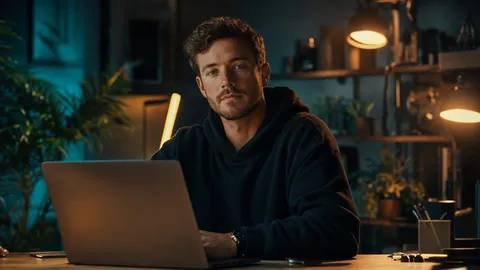
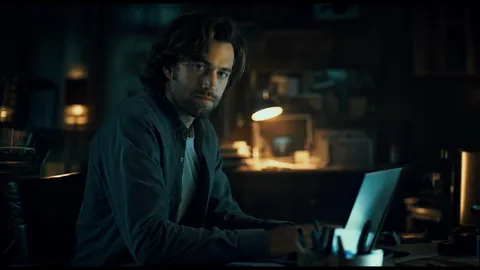
art(formats): regenerate the original six previews on ChatGPT Images so the picker is one model (#37)
* art(formats): regenerate the original six previews on ChatGPT Images so the picker is one model

The twelve-card picker shipped with six cards drawn by SD XL 1.0 (3 Buzz) and
six by ChatGPT Images (209). Each card was an honest sample of its own suffix,
but comparing two cards compared two MODELS as much as two formats. The operator
looked at the live 0.1.10 picker and chose consistency: all twelve are now
ChatGPT Images.

The suffixes are untouched. Only the art moved, so every card still shows what
its own suffix does.

Measured rather than assumed:

- The price was verified with a CONTROL PAIR before spending, because an
  unrecognised ecosystem spelling is billed silently at the default model's
  price. `--ecosystem OpenAI` -> 209; the identical request with no --ecosystem
  -> 8. All six dry-ran at 209.
- The spend reconciles exactly: balance 4,061,060 -> 4,059,806, delta 1,254 =
  6 x 209.
- All six delivered 1536x864 by `magick identify` -- a true 16:9 frame, so none
  was cropped. The SD XL art had to be cover-cropped from 1216x832; that step is
  gone. Resized to the repo's 480x270 WebP convention.
- All six passed moderation and the prompt parser: six submits, six images, no
  rejection, no retry. A rejected submit does not bill, so the reconciled 1254 is
  itself that evidence.

`formats.json` carries the new sourceWorkflowId and costBuzz for each -- the
provenance triple travels together, and `formats.test.ts` pins its shape
[…]

diff --git a/claudedocs/format-previews.md b/claudedocs/format-previews.md
@@ -59,16 +59,24 @@ not tainted, and export works.
 
 ## The FIRST six built-in formats (2026-09-28, SD XL 1.0, 3 Buzz each)
 
+🔴 **SUPERSEDED 2026-10-02 — this section describes the ART THAT IS NO LONGER
+SHIPPED.** All six were regenerated on ChatGPT Images; see §"The first six,
+REGENERATED". The `sourceWorkflowId`s recorded here are not the ones in
+`formats.json` any more, and the cover-crop paragraph below is no longer how
+these previews are made. Kept because it is the provenance of the SD XL art and
+the origin of the held-fixed subject, not because it is current.
+
 One shared subject across all six — *"a person at a desk with a glowing laptop,
 looking at the camera"* — because a format IS a prompt suffix, so holding the
 subject fixed is the only honest way to show what the suffix does. The second
 batch of six (below) reuses this exact subject for the same reason.
 
 `public/formats/formats.json` carries the canonical `{label, suffix, preview,
-sourceWorkflowId, costBuzz}` for each. Previews are the generated image
-cover-cropped to 16:9 and resized to 480×270 WebP (89 KB for all six) — cropped
-deliberately, so the preview shows what the user actually receives rather than
-the uncropped frame.
+sourceWorkflowId, costBuzz}` for each. The SD XL previews were the generated
+image cover-cropped to 16:9 and resized to 480×270 WebP (89 KB for all six) —
+cropped deliberately, so the preview showed what the user actually receives
+rather than the uncropped frame. **That crop step is gone**: ChatGPT Images
+delivers a true 16:9 frame, so the current art is resized and not cropped.
 
 Served from `public/`, so they are real build output at `/formats/<id>.webp`.
 Note `assets/` at the repo root is STORE-LISTING media and is NOT served to the
@@ -100,22 +108,68 @@ That is not a convenience: a format IS a prompt suffix, so holding the subject
 constant is the only honest way to show what the suffix does. A preview generated
 from a different subject would advertise the subject, not the format.
 
-### 🔴 Two batches, two models, a 70× price difference
+### 🔴 Two batches, two models, a 70× price difference — CLOSED 2026-10-02
+
+🔴 **THIS IS NOW HISTORY, NOT THE STATE.** The mixed-model picker described here
+lasted one day: the operator took the alternative this section's last sentence
+said was "not taken". All twelve previews are now ChatGPT Images at 209 Buzz.
+The table is kept because the 70× spread is a real pricing fact worth having.
 
 | batch | model | delivered | Buzz each |
 |---|---|---|---|
-| original six | SD XL 1.0 | 1216×832 (asked for 1280×720 — see the finding above) | **3** |
-| second six | ChatGPT Images | **1536×864** (true 16:9) | **209** |
+| original six (2026-09-28, **replaced**) | SD XL 1.0 | 1216×832 (asked for 1280×720 — see the finding above) | **3** |
+| second six (2026-10-02) | ChatGPT Images | **1536×864** (true 16:9) | **209** |
+| original six, REGENERATED (2026-10-02) | ChatGPT Images | **1536×864** (true 16:9) | **209** |
 
-The second batch needed **no crop** — 1536×864 is exactly 16:9, unlike the first
-six, which were cover-cropped from 1216×832. All twelve are stored at the repo's
-convention: **480×270 WebP**, verified on disk.
+The ChatGPT Images batches need **no crop** — 1536×864 is exactly 16:9, unlike
+the SD XL art, which was cover-cropped from 1216×832. All twelve are stored at
+the repo's convention: **480×270 WebP**, verified on disk.
 
-Mixing models across one picker is a deliberate trade and worth stating plainly:
-the twelve previews are not a controlled comparison *between formats*, because
-six were drawn by one model and six by another. They are each an honest sample of
-*that* format's suffix. The alternative — regenerating the first six on ChatGPT
-Images for consistency — costs another 1254 Buzz and was not taken.
+## The first six, REGENERATED (2026-10-02, 1254 Buzz) — the picker is now ONE model
+
+`clickbait`, `cinematic`, `bold-simple`, `tech-review`, `tutorial` and `gaming`
+were re-drawn on ChatGPT Images so that all twelve cards come from one model.
+**Operator decision, taken after seeing the twelve-card picker live on 0.1.10.**
+The suffixes are UNCHANGED — only the art moved — so the cards still show what
+each suffix does; what changed is that comparing two cards now compares two
+*formats* rather than two *models*.
+
+| format | sourceWorkflowId | Buzz |
+|---|---|---|
+| `clickbait` | `8753561-20261002054934746-1qkg` | 209 |
+| `cinematic` | `8753561-20261002055520845-z42s` | 209 |
+| `bold-simple` | `8753561-20261002055707344-6gjt` | 209 |
+| `tech-review` | `8753561-20261002055750302-g93k` | 209 |
+| `tutorial` | `8753561-20261002055858829-by21` | 209 |
+| `gaming` | `8753561-20261002060045425-9p8h` | 209 |
+
+Same subject, same composition as both earlier batches: the prompt submitted was
+`"<subject>, <suffix>"`, matching the app's own `composePrompt()` joiner, with the
+subject held at *"a person at a desk with a glowing laptop, looking at the
+camera"*.
+
+**Measured, not assumed:**
+
+- 🔴 **The price was verified by a CONTROL PAIR before spending**, because an
+  ecosystem spelling the server does not recognise is billed silently at the
+  default model's price. `--ecosystem OpenAI` → **209**; the identical request
+  with **no** `--ecosystem` → **8**. The 209 is therefore ChatGPT Images and not
+  a typo that fell through to the default. All six dry-ran at 209.
+- **The spend reconciles exactly.** Balance **4,061,060 → 4,059,806**, a delta of
+  **1,254** = 6 × 209. Read before and after with `civitai buzz`.
+- **All six delivered 1536×864**, by `magick identify`, so none was cropped —
+  only resized to 480×270 WebP.
+- **All six passed moderation and the prompt parser**: six submits, six images,
+  no rejection and no retry. A rejected submit does not bill, so the reconciled
+  1254 is itself the evidence.
+
+⚠ **Two things to LOOK at rather than infer, both a consequence of the model
+rendering legible text where SD XL could not:** the `clickbait` draw carries a
+baked-in headline (*"$10,000 A DAY?!"*) and a YouTube play-button mark, and the
+`gaming` draw carries several garbled text fragments. Both are honest output of
+their own suffix — `clickbait`'s suffix literally begins *"youtube thumbnail"* —
+but a third-party mark in shipped app art is a judgement call, not a fact, and it
+is recorded here so the next reader does not have to re-derive why it is there.
 
 ### Evidence: all six passed moderation and the prompt parser
 
